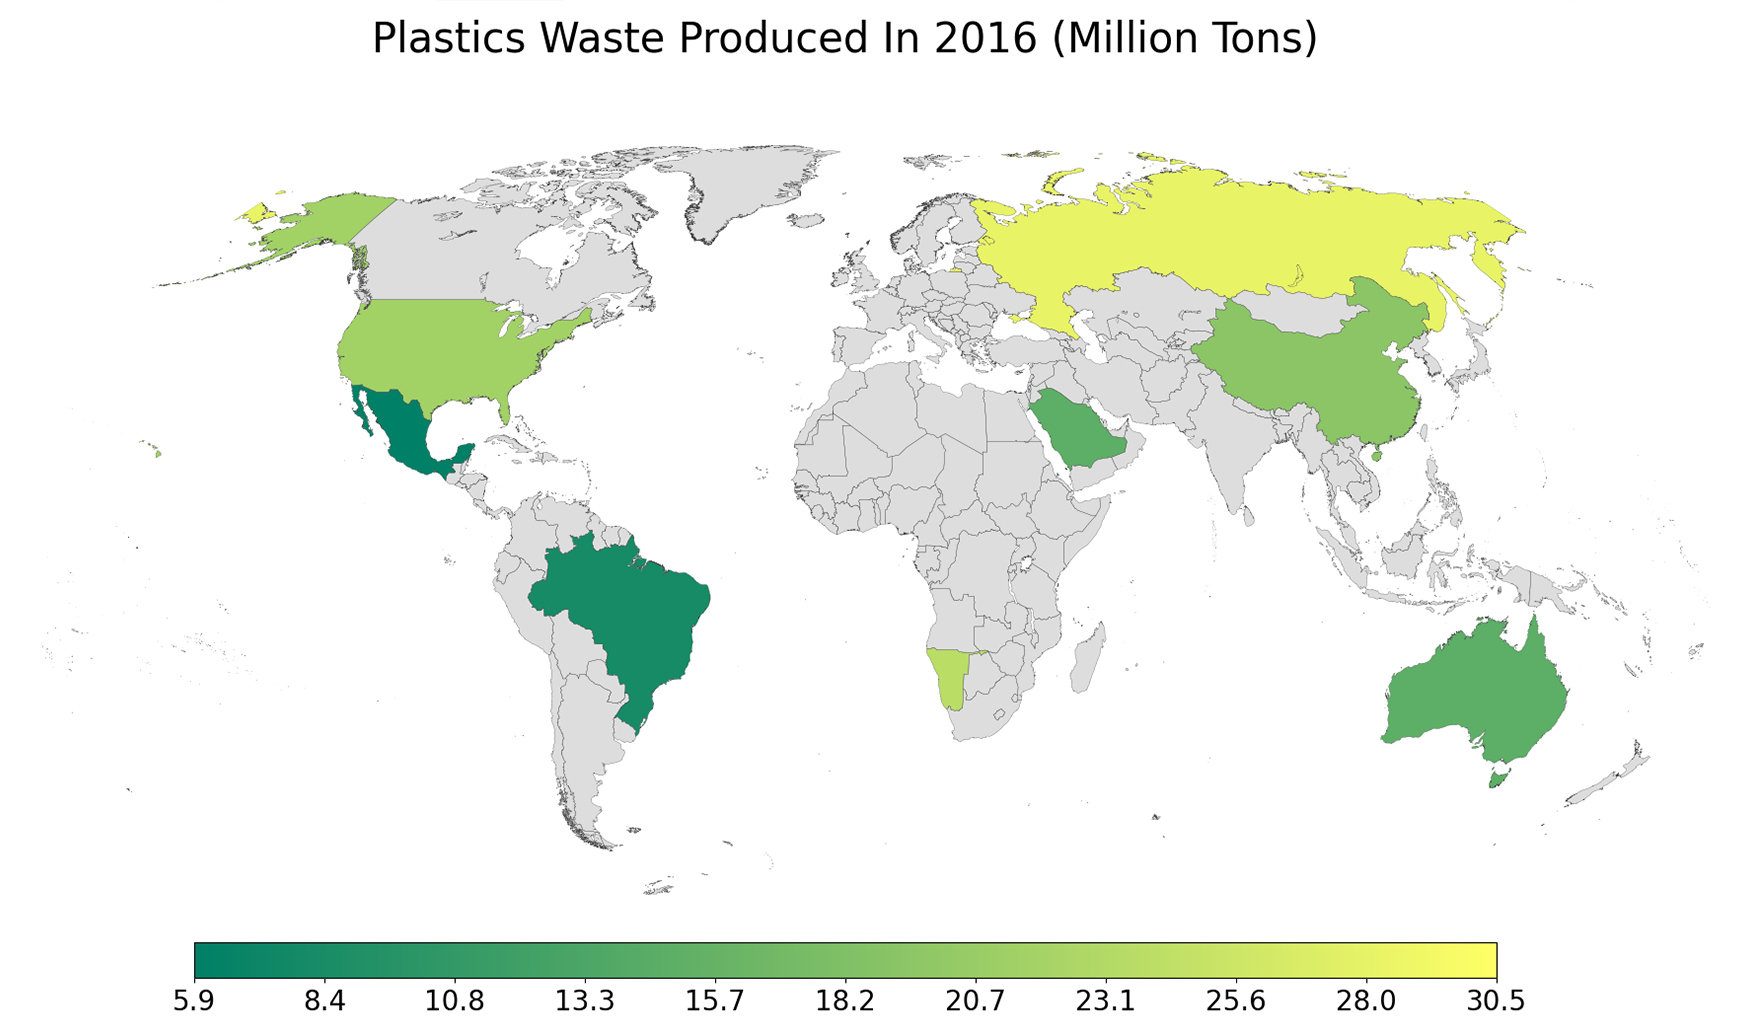
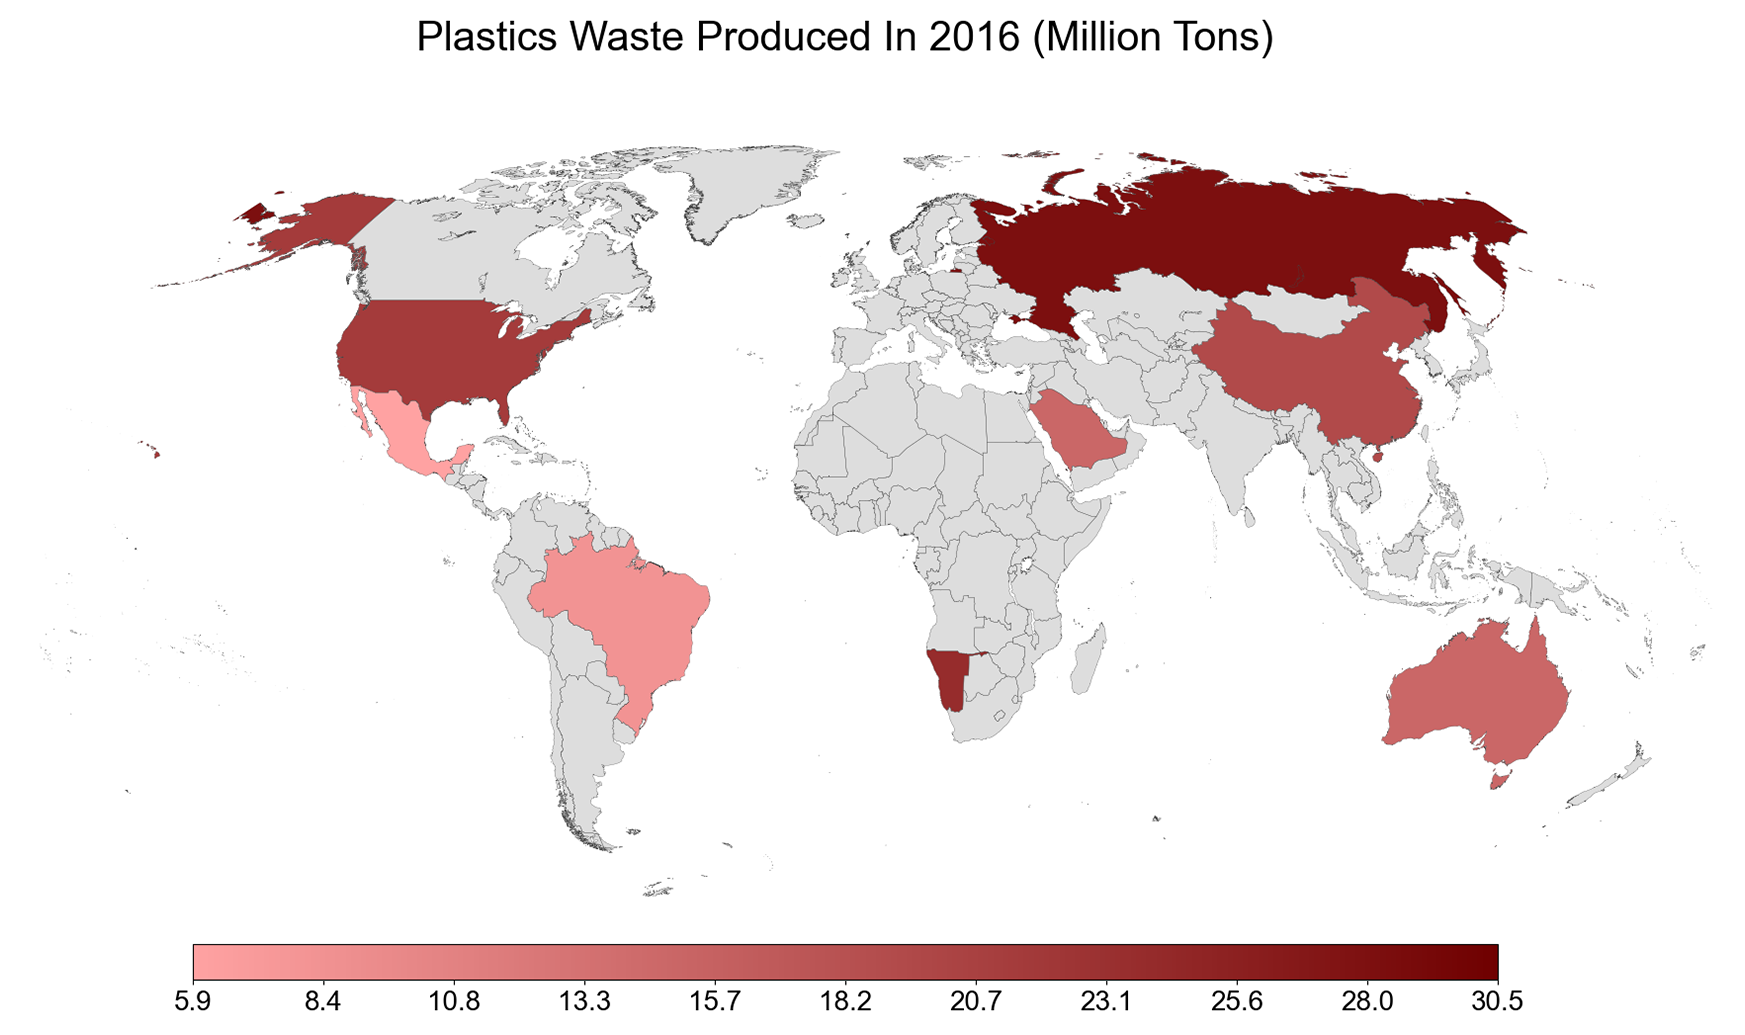
final

diff --git a/index copy.html b/index copy.html
@@ -7,9 +7,39 @@
     <link rel="stylesheet" href="css/styles.css">
   </head>
   <body>
-    <div class="centered2"><h1> Consent Form</h1>
-      <h2> I consent to my data being collected and used as part of the experiment. <br> The results may be shared with others.</h2></div>
+    <div class="centered2"><h1> Consent Form</h1></div>
+    <div class="consent"><h4><u>Investigating a Contrast of Maps vs. Bar charts for Comparing the Plastic Pollution of Different Countries.</u> <br>
+      You are being invited to take part in an experiment to determine the effectiveness of maps against bar graphs when comparing the plastic pollution of several countries. Before you decide whether to take part in the experiment, it is incredibly important to understand what the experiment will consist of, what is required of you and the purpose of the experiment. Please take your time to carefully read the following information. <br>
+      <u>What is the purpose of the experiment?</u> <br>
+       The purpose of this study is to identify whether colour encoded maps or bar charts are a more effective visualisation to present data on plastic pollution for a range of countries. 
+      <br><br> <u>Do I have to take part? </u>
+      <br>No, you have complete freedom over the choice. If you do not wish to take part in the experiment, please complete the Consent Form to show your rights in relation to the research. If you do decide to take part, you are still able to withdraw at any time without a reason. Please inform one of the lead researchers if you seek to withdraw from the experiment at any point. 
+     <br><br> <u>What will the experiment consist of? </u>
+      <br>You will be shown a series or 20 screens. Each screen will contain one visualisation, either a colour encoded world map or a bar chart, displaying data regarding the plastic pollution of 10 countries. On the screen along with the visualisation, you will have to answer one multiple choice question. You will be able to select and once decided you will have to confirm your choice. If you make a mistake, you can alter your selection before confirming. We will keep a record of your answers and the time taken to produce the answer and use this information to perform our analysis when the experiment is finished. There is no prerequisite for knowledge in data visualisation because this experiment is to find out which visualisation is best to notice data on plastic pollution instinctively. Knowledge of the world map is required for the experiment and appropriate training will be provided. The experiment should approximately take between 20-30 minutes. 
+      <br><br><u>What data will we collect? </u>
+      <br> The time spent on each screen and the answer provided will also be recorded and used for our analysis. 
+     <br> <br> <u>What are the benefits of the experiment? </u>
+      <br> There is no financial reward for taking part in the experiment. 
+     <br> <br> <u>Background </u>
+      <br>This experiment is part of COMP3736 Information Visualisation - Coursework 2. The experiment leaders are Edward Day (sc19ed), Mohammed Hamzah-Hafajee (sc19mhh), Efthymios Kyriakou (sc19ek) and Loukas Papachristoforou (sc19lp). For more information on the experiment please contact a member of the team by email: 
+      <br>Sc19ed@leeds.ac.uk                    Sc19mhh@leeds.ac.uk                       Sc19ek@leeds.ac.uk                     Sc19lp@leeds.ac.uk </h4>
 <br>
+<div><ul>
+<li>I understand that I do not have to take part in the experiment. </li>
+<li>I understand that if I do decide to take part, I can withdraw at any time without giving a reason. </li>
+<li>I have read and understood the background and the purpose of the experiment and had all my queries regarding the experiment answered. </li>
+<li>I understand how the experiment will be conducted. </li>
+<li>I understand that I can withdraw my permission to use my data within 7 days after completing the experiment. </li>
+<li>I am aware of what data will be collected and I understand how the data will be used. </li>
+<li>I give consent for my data requested to be used. </li>
+<li>I understand that the information stored cannot be used to directly identify me and the any personal data will be anonymised. </li>
+<li>I understand that the results and any data collected will be stored in a OneDrive folder that is shared with the experiment leaders and it will be kept for 30 days after the experiment. </li>
+<li>I understand that while the data is stored, I am entitled to access and alter any information relating to myself. </li>
+<li>I understand that if I have any further queries or require any clarification, I can contact any of the experiment leaders and I have been provided with their contact details. 
+</li>
+</ul></div> </div>
+      
+
 <div class="centered">
   <form action="/action_page.php">
     <input type="checkbox" id="vehicle3" name="vehicle3" value="Boat">

diff --git a/index.html b/index.html
@@ -8,11 +8,11 @@
   </head>
   <body>
     <div class="maincontainer">
-      <h1>Question: Which quartile is Australia in?</h1>
+      <h1>Question: Which quartile is China in?</h1>
       
     </div>
     <br>
-    <img src="img/bar.png" alt="">
+    <img src="img/map.png" alt="">
 <br>
 <div class="centered">
   <div class="button"><p>1</p></div>

diff --git a/css/styles.css b/css/styles.css
@@ -64,7 +64,7 @@ margin: 20px auto 20px auto;
 }
 .centered2{
   text-align: center;
-  margin: 200px auto 0 auto;
+  margin: 20px auto 0 auto;
 }
 .button{
   padding: 20px;
@@ -94,6 +94,9 @@ p{
   color: hsl(214, 17%, 51%);
   font-size: auto;
   font-weight: 500;
+}
+.consent{
+  margin: 0 25px;
 }
 .name{
 color: hsl(217, 19%, 35%);

diff --git a/map2.py b/map2.py
@@ -3,7 +3,7 @@ import matplotlib.pyplot as plt
 import numpy as np
 import pandas as pd
 import geopandas as gpd
-
+from sctriangulate.colors import build_custom_continuous_cmap
 from geonamescache import GeonamesCache
 from matplotlib.patches import Polygon
 from matplotlib.collections import PatchCollection
@@ -25,7 +25,8 @@ df = pd.read_csv(filename, usecols=cols)
 df.set_index('Country Code', inplace=True)
 #df = df.loc[iso3_codes].dropna()
 values = df["Waste"]
-cm = plt.get_cmap('summer')
+cm = build_custom_continuous_cmap([255,162,162],[111,0,0])
+#cm = plt.get_cmap('summer')
 scheme = [cm(i / colors) for i in range(colors)]
 bins = np.linspace(values.min(), values.max(), colors)
 df['bin'] = np.digitize(values, bins) - 1
@@ -60,8 +61,8 @@ ax.axhspan(0, 1000 * 1800, facecolor='w', edgecolor='w', zorder=2)
 ax_legend = fig.add_axes([0.2, 0.14, 0.6, 0.03], zorder=3)
 cmap = mpl.colors.ListedColormap(scheme)
 print(bins)
-#cb = mpl.colorbar.ColorbarBase(ax_legend, cmap=cm, ticks=bins, boundaries=bins, orientation='horizontal')
-cb = mpl.colorbar.ColorbarBase(ax_legend, cmap=cm, orientation='horizontal')
+cb = mpl.colorbar.ColorbarBase(ax_legend, cmap=cm, ticks=bins, boundaries=bins, orientation='horizontal')
+#cb = mpl.colorbar.ColorbarBase(ax_legend, cmap=cm, orientation='horizontal')
 
 cb.ax.set_xticklabels([str(round(i, 1)) for i in bins])
 plt.xticks(fontsize=20)
